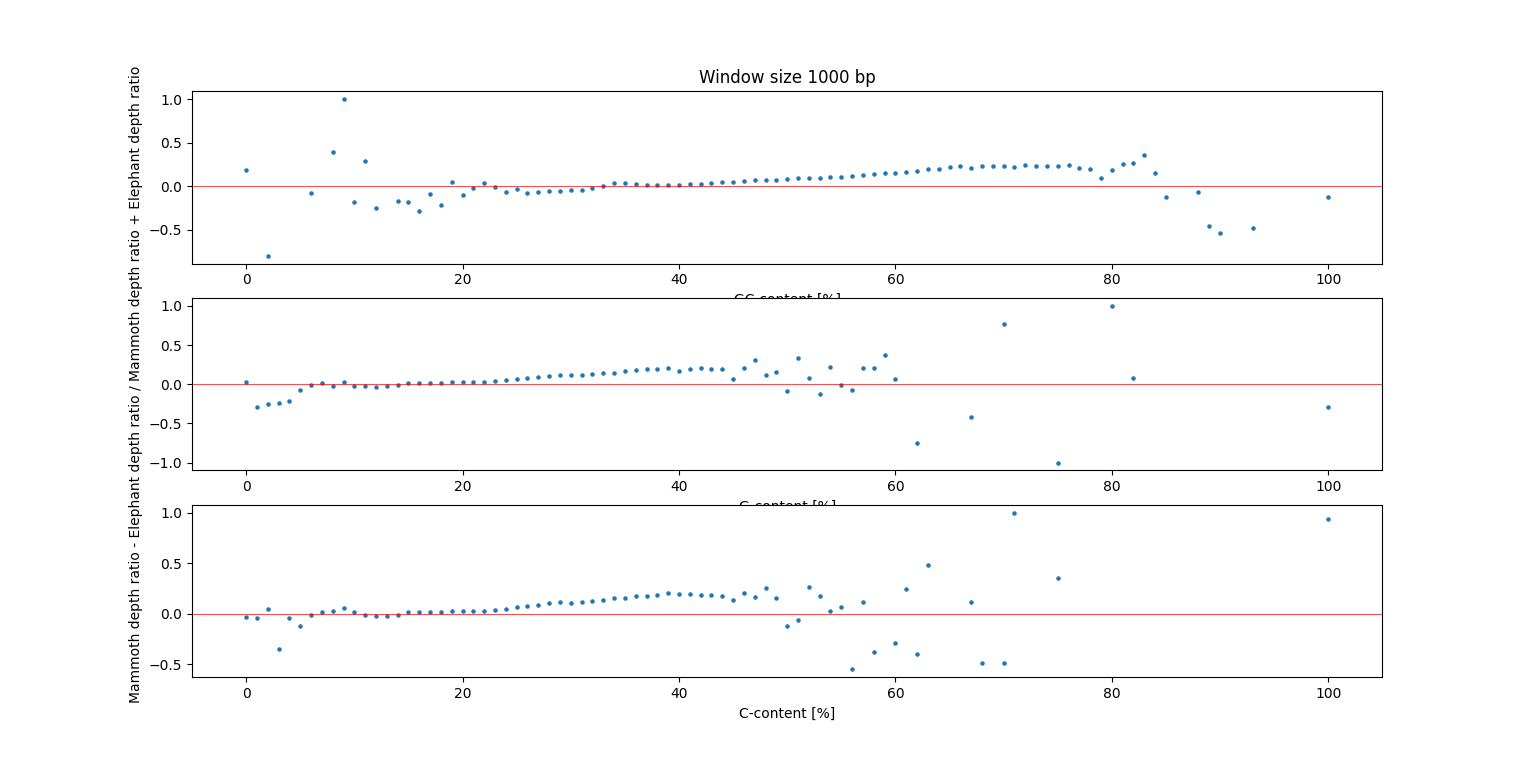
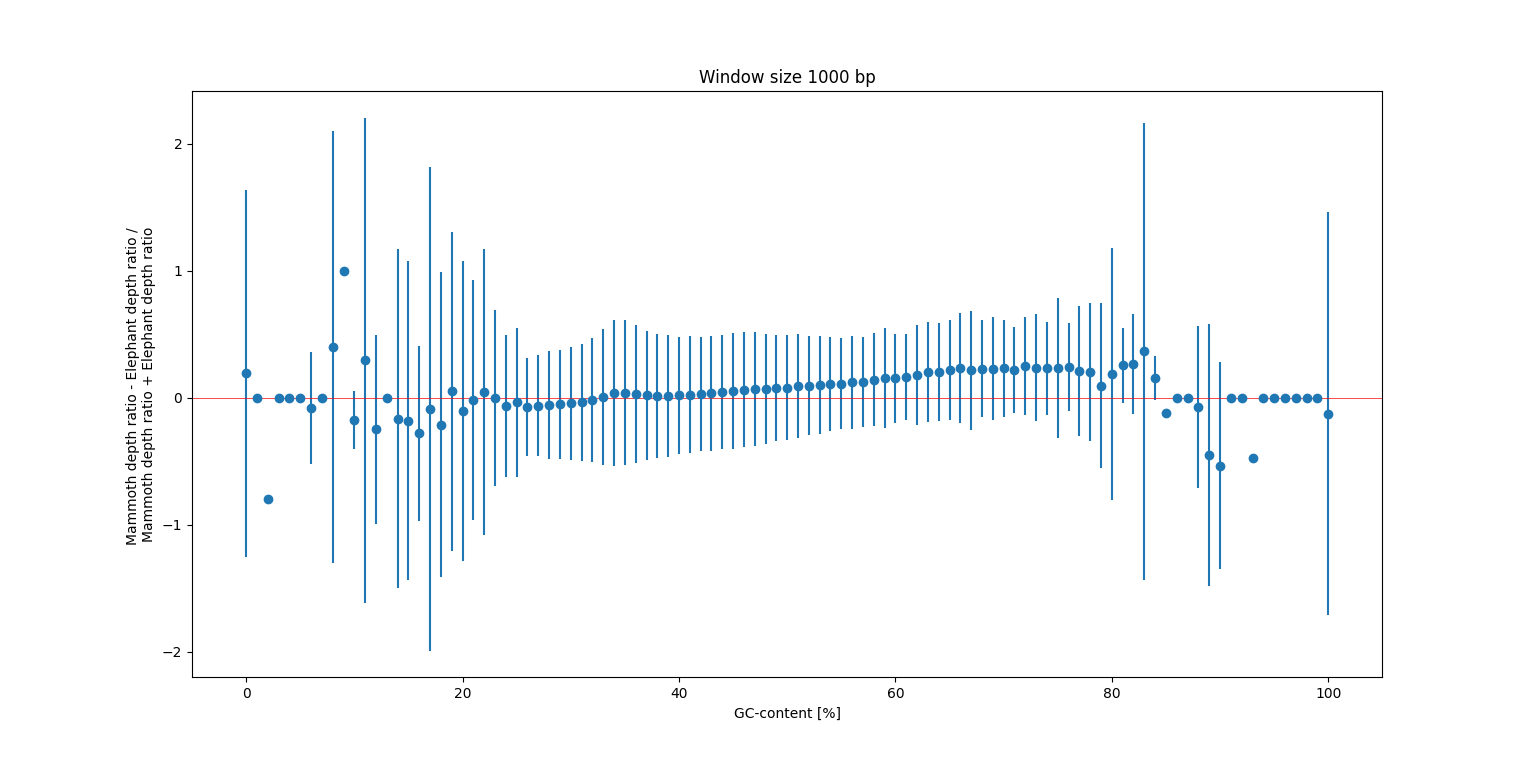
StdPlot + Trendline

diff --git a/scripts/genomewideGC_plot.py b/scripts/genomewideGC_plot.py
@@ -8,21 +8,21 @@ import numpy as np
 def plot_gc():
     outfile=str(input('Output file name: '))
     # Calculating depth and GC content in specified regions using these dictionaries
-    # Dictionaries have keys from 0 to 100
-    gc_dict = {i: [0,0] for i in range(101)}
-    # g_dict = {i: [0,0] for i in range(101)}
-    # c_dict = {i: [0,0] for i in range(101)}
+    # Dictionaries have keys from 0 to 100, values are a list, index 0: avergae, 1: standard deviation, 2: number of datapoints
+    gc_dict = {i: [0,0,0] for i in range(101)}
+    #g_dict = {i: [0,0] for i in range(101)}
+    #c_dict = {i: [0,0] for i in range(101)}
+    mOld_dict = {i: 0 for i in range(101)}
 
     # Defining variables
-    window_size = 100  # Set window size for sliding window analysis
+    window_size = 1000  # Set window size for sliding window analysis
     mammoth_average = 13.34943063462263     # Pooled mammoth genome average
     elephant_average = 33.001500559085684   # Pooled elephant genome average
-    chunk_size = 1000000 #Size of data batches being read, in rows at a time
+    chunk_size = 1200000 #Size of data batches being read, in rows at a time
     telomeres = [3037418,3037418,0,3037418,3037418,3037418,0,3037418,3037418,3037418,3037418,3037418,3037418,3037418,3037418,3037418,3037418,3037418,3037418,3037418,0,3037418,3037418,3037418,3037418,3037418,3037418,3037418]
-    #names = ['chr1', 'chr2', 'chr3', 'chr4', 'chr5', 'chr6', 'chr7', 'chr8', 'chr9', 'chr10', 'chr11', 'chr12', 'chr13', 'chr14', 'chr15', 'chr16', 'chr17', 'chr18', 'chr19', 'chr20', 'chr21', 'chr22', 'chr23', 'chr24', 'chr25', 'chr26', 'chr27', 'chrX']
-    names = ['chr24']
-    
-    with open("D:/Data/LoxAfr4_DQ188829.fa") as handle:
+    names = ['chr1', 'chr2', 'chr3', 'chr4', 'chr5', 'chr6', 'chr7', 'chr8', 'chr9', 'chr10', 'chr11', 'chr12', 'chr13', 'chr14', 'chr15', 'chr16', 'chr17', 'chr18', 'chr19', 'chr20', 'chr21', 'chr22', 'chr23', 'chr24', 'chr25', 'chr26', 'chr27', 'chrX']
+
+    with open("D:/Data/LoxAfr4_DQ188829.fa", encoding="ascii") as handle:
         for values in SimpleFastaParser(handle): #Loads the Fasta header and the corresponding sequence in a list [header,sequence]
             if values[0] in names: #If the fasta header is present in the names list it should be included in the calculations
                 chr_nr = names.index(values[0]) #Getting the index of the fasta header in the names list
@@ -52,8 +52,6 @@ def plot_gc():
                             if mammoth_depth != 0 or elephant_depth != 0:
                                 ratio = ((mammoth_depth/mammoth_average)-(elephant_depth/elephant_average))/\
                                     ((mammoth_depth/mammoth_average)+(elephant_depth/elephant_average))
-                                if ratio > 1:
-                                    print(f'Positions: {[start,stop]} Ratio: {ratio}]')
                                 region = values[1][telomeres[chr_nr]+idx*chunk_size+start:telomeres[chr_nr]+idx*chunk_size+stop]
                                 no_ns = region.replace('N', '')  # Excluding positions with N
                                 if len(no_ns) == 0:
@@ -62,13 +60,15 @@ def plot_gc():
                                     gc_content = ((region.count('G') + region.count('C')) / len(no_ns))*100   # Calculating GC-content
                                     gc_dict_key = round(gc_content)
 
-                                    # g_dict_key = round((region.count('G')/len(no_ns))*100)
-                                    # c_dict_key = round((region.count('C')/len(no_ns))*100)
+                                    #Saving the old average used for std calculations
+                                    mOld_dict[gc_dict_key] = gc_dict[gc_dict_key][0]
+                                    #Updating the averages of different GC%, and the number of datapoints
+                                    #New average being the old average + (ratio-old average) / number of datapoints, including the new one
+                                    gc_dict[gc_dict_key] = [gc_dict[gc_dict_key][0]+((ratio-gc_dict[gc_dict_key][0])/(gc_dict[gc_dict_key][2]+1)),gc_dict[gc_dict_key][1],(gc_dict[gc_dict_key][2])+1]
+                
+                                    #Updating the std (variance?)
+                                    gc_dict[gc_dict_key][1] = gc_dict[gc_dict_key][1] + ((ratio-mOld_dict[gc_dict_key])*(ratio-gc_dict[gc_dict_key][0]))
 
-                                    #Updating the averages of different GC%
-                                    gc_dict[gc_dict_key] = [gc_dict[gc_dict_key][0]+((ratio-gc_dict[gc_dict_key][0])/(gc_dict[gc_dict_key][1]+1)),(gc_dict[gc_dict_key][1])+1]
-                                    # g_dict[g_dict_key] = [g_dict[g_dict_key][0]+((ratio-g_dict[g_dict_key][0])/(g_dict[g_dict_key][1]+1)),g_dict[g_dict_key][1]+1]
-                                    # c_dict[c_dict_key] = [c_dict[c_dict_key][0]+((ratio-c_dict[c_dict_key][0])/(c_dict[c_dict_key][1]+1)),c_dict[c_dict_key][1]+1]
                     print(f'Chromosome {names[chr_nr]} {round(((telomeres[chr_nr]+idx*chunk_size+start)/len(values[1]))*100,2)}%')
                 data = 0
                 print(f'Chromosome {names[chr_nr]} DONE')
@@ -78,66 +78,42 @@ def plot_gc():
     os.chdir("./GC_data")
     f = open(outfile+".txt", "a")
     # Calculating average depth in each GC-window
+    GC_counts = []
     ratio_counts = []
+    std_counts = []
     for i in gc_dict:
-        f.write(str(float(gc_dict[i][0]))+'\t'+str(int(gc_dict[i][1]))+'\n')
-        if gc_dict[i] != [0,0]:
+        if gc_dict[i] != [0,0,0] and gc_dict[i][2] != 1:
+            GC_counts.append(i)
+            gc_dict[i][1] = (gc_dict[i][1]/(gc_dict[i][2]-1))**(0.5) #Final std calc
             ratio_counts.append(gc_dict[i][0])
-        else:
-            ratio_counts.append(None)
-
-    # Calculating average depth in each G-window
-    # ratio_counts_g = []
-    # for i in g_dict:
-    #     if g_dict[i] != [0,0]:
-    #         ratio_counts_g.append(g_dict[i][0])
-    #     else:
-    #         ratio_counts_g.append(None)
-    #
-    # # Calculating average depth in each C-window
-    # ratio_counts_c = []
-    # for i in c_dict:
-    #     if c_dict[i] != [0,0]:
-    #         ratio_counts_c.append(c_dict[i][0])
-    #     else:
-    #         ratio_counts_c.append(None)
+            std_counts.append(gc_dict[i][1]*2) #2std for a 95% confidence interval
+        f.write(str(round(float(gc_dict[i][0]),3))+'\t'+str(round(float(gc_dict[i][1]),3))+'\t'+str(int(gc_dict[i][2]))+'\n')
     f.close()
 
     # Fit trend line to data
-
     # Parameters from the fit of the polynomial
-    ratio_counts_no_none = [i for i in ratio_counts if i != None]
-    x = [i for i in range(len(ratio_counts_no_none))]
-    p = np.polyfit(x, ratio_counts_no_none, deg=1)
+    p = np.polyfit(GC_counts,ratio_counts, deg=1)
 
     # Model the data using the parameters of the fitted straight line
-    y_model = np.polyval(p, x)
+    y_model = np.polyval(p, GC_counts)
 
     # Mean
-    y_bar = np.mean(ratio_counts_no_none)
+    y_bar = np.mean(ratio_counts)
     # Coefficient of determination, R²
-    R2 = np.sum((y_model - y_bar) ** 2) / np.sum((ratio_counts_no_none - y_bar) ** 2)
+    R2 = np.sum((y_model - y_bar) ** 2) / np.sum((ratio_counts - y_bar) ** 2)
 
     # Plotting results
-    #plt.subplot(3, 1, 2)
-    plt.scatter([i for i in range(101)], ratio_counts, s=5)
+    plt.scatter(GC_counts, ratio_counts, s=5)
     plt.axhline(0, color='r', linewidth=0.5)
     plt.xlabel('GC-content [%]')
-    plt.title('Window size 100 bp')
-    #plt.subplot(3, 1, 2)
-    #plt.scatter([i for i in range(101)], ratio_counts_g, s=5)
-    #plt.axhline(0, color='r', linewidth=0.5)
-    #plt.xlabel('G-content [%]')
+    plt.title(f'Window size {window_size} bp')
     plt.ylabel('Mammoth depth ratio - Elephant depth ratio / \nMammoth depth ratio + Elephant depth ratio')
-    #plt.subplot(3, 1, 3)
-    #plt.scatter([i for i in range(101)], ratio_counts_c, s=5)
-    #plt.axhline(0, color='r', linewidth=0.5)
-    #plt.xlabel('C-content [%]')
 
     # Line of best fit
     xlim = plt.xlim()
     plt.plot(np.array(xlim), p[1] + p[0] * np.array(xlim), label=f'Line of Best Fit, R² = {R2:.2f}', color='black')
     plt.legend(fontsize=8)
+    plt.errorbar(GC_counts, ratio_counts, yerr=std_counts, fmt='o')
     plt.show()
 
 if __name__ == '__main__':

diff --git a/scripts/IncrementalStatistics.py b/scripts/IncrementalStatistics.py
@@ -3,7 +3,8 @@ import matplotlib.pyplot as plt
 import numpy as np
 
 telomeres = [3037418,3037418,0,3037418,3037418,3037418,0,3037418,3037418,3037418,3037418,3037418,3037418,3037418,3037418,3037418,3037418,3037418,3037418,3037418,0,3037418,3037418,3037418,3037418,3037418,3037418,3037418]
-names = ['chr1', 'chr2', 'chr3', 'chr4', 'chr5', 'chr6', 'chr7', 'chr8', 'chr9', 'chr10', 'chr11', 'chr12', 'chr13', 'chr14', 'chr15', 'chr16', 'chr17', 'chr18', 'chr19', 'chr20', 'chr21', 'chr22', 'chr23', 'chr24', 'chr25', 'chr26', 'chr27', 'chrX']
+#names = ['chr1', 'chr2', 'chr3', 'chr4', 'chr5', 'chr6', 'chr7', 'chr8', 'chr9', 'chr10', 'chr11', 'chr12', 'chr13', 'chr14', 'chr15', 'chr16', 'chr17', 'chr18', 'chr19', 'chr20', 'chr21', 'chr22', 'chr23', 'chr24', 'chr25', 'chr26', 'chr27', 'chrX']
+names = ['chr24']
 path = 'D:/Data/mammoth.'
 
 '''
@@ -18,7 +19,7 @@ def incrementalStatistics(filePath, names, telomeres):
     s = 0 #Standard deviation
     #meanValue = 33.108845127365235 #Used when removing outliers, this is the previous average
     #stdValue = 10.777236719119456 #Used when removing outliers, this is the previous average
-    for i in range(len(telomeres)):
+    for i in range(len(names)):
         for chunk in pd.read_csv(filePath+names[i]+'.depth', sep='\t', comment='t', header=None, usecols=[2,3,4,5], skiprows=telomeres[i], chunksize=10000000):
             chunk = chunk.mean(axis=1) #Calculates the mean value of each input row
             for index, mammothMean in chunk.items(): #Iterates through each row
